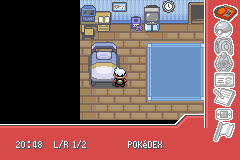
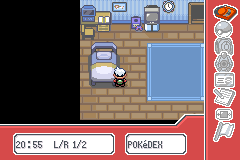
Restore Vol's original Start menu frame and contain footer text

Changed region(s): [[0.0292, 0.8125, 0.7875, 0.9688], [0.8458, 0.7812, 0.875, 1.0]]

diff --git a/src/custom_start_menu.c b/src/custom_start_menu.c
@@ -61,7 +61,7 @@ static void RestoreFooter(u8 win, u8 backdrop)
         BlitBitmapToWindow(win,tile,(i%width)*8,(i/width)*8,8,8);
     }
 }
-static const u8 sFooterColors[]={TEXT_COLOR_TRANSPARENT,5,1};
+static const u8 sFooterColors[]={TEXT_COLOR_TRANSPARENT,1,4};
 void CustomStartMenu_Select(u8 cursor,const u8 *label)
 {
     u32 i;
@@ -69,6 +69,8 @@ void CustomStartMenu_Select(u8 cursor,const u8 *label)
     for(i=0;i<sCustomMenu->count;i++)
         if(sCustomMenu->sprites[i]!=MAX_SPRITES)
             StartSpriteAnim(&gSprites[sCustomMenu->sprites[i]],sCustomMenu->icons[i]+(i==cursor?0:sCustomMenu->icons[i]==14?1:7));
+    // Keep the long store name inside Vol's original seven-tile panel.
+    if(!StringCompare(label,COMPOUND_STRING("LEGENDS STORE")))label=COMPOUND_STRING("STORE");
     RestoreFooter(sCustomMenu->label,1);
     AddTextPrinterParameterized4(sCustomMenu->label,FONT_SMALL,0,1,0,0,sFooterColors,TEXT_SKIP_DRAW,label);
     CopyWindowToVram(sCustomMenu->label,COPYWIN_FULL);

diff --git a/docs/features/custom-start-menu/README.md b/docs/features/custom-start-menu/README.md
@@ -20,4 +20,4 @@ Rotom Phone was evaluated but is not installed. Quest icons, new quests and the 
 
 ## Footer correction
 
-The footer uses a continuous themed color strip with no white panels or window borders. Clock, L/R page hint and selected app name use white text with a dark shadow. All four themes and all 554 native checks pass on this build.
+Restores Vol's original background tilemap, with only palette-bank references adapted to this engine. The original shaped footer and two bordered inset panels remain intact. Text windows copy the artwork beneath them rather than replacing it with opaque white rectangles. Clock and L/R hint fit the left panel; app labels fit the original right panel (Legends Store displays STORE). Theme switching and both action pages remain available. All 554 checks pass on this build.
